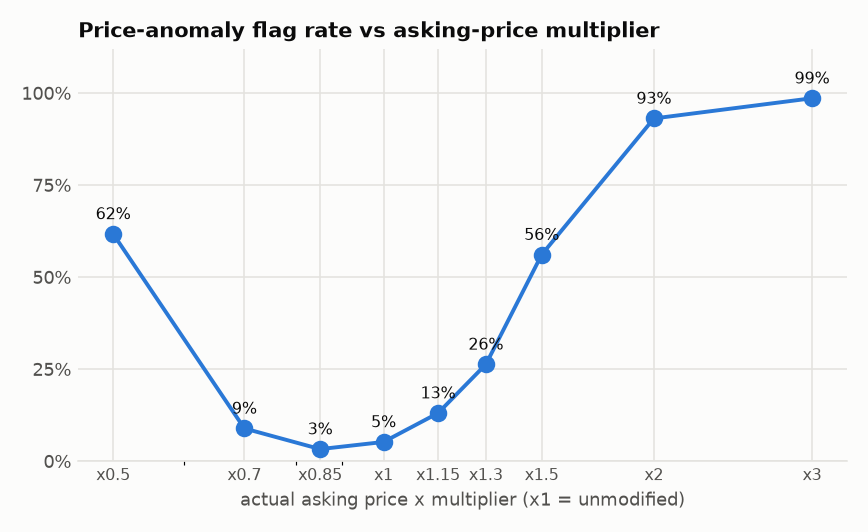
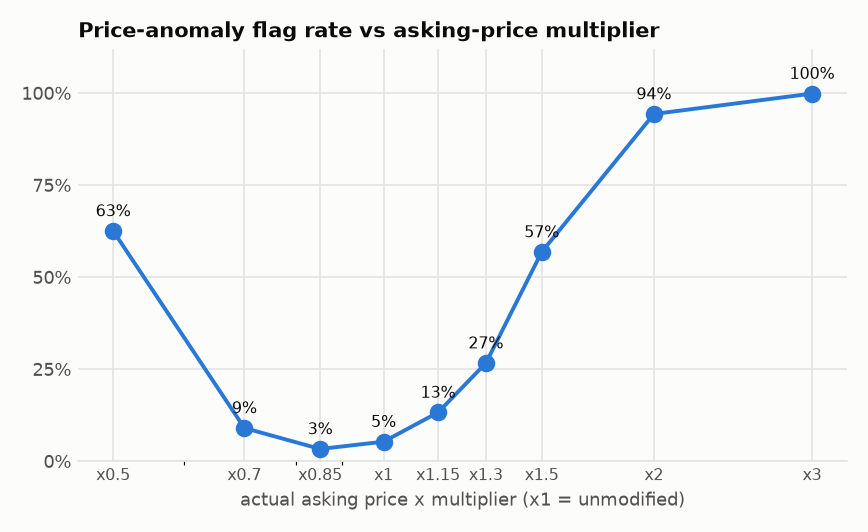
B08: exclude withheld predictions from sensitivity rates; verify B05/B07 calibration identity

diff --git a/ml/evaluation_evidence.py b/ml/evaluation_evidence.py
@@ -105,6 +105,16 @@ def load_inputs(b04: Path, b05: Path, package_dir: Path, snapshot: Path) -> Dict
         raise ci.ArtifactError("B04, B05, the package and the snapshot do not refer to the same snapshot")
     if report05["metadata"]["b04_model_sha256"] != model_sha or package.manifest["model_sha256"] != model_sha:
         raise ci.ArtifactError("B05 or the package was built for a different B04 model")
+    # The interval metrics (B05 report) and the risk results (computed with the packaged calibration) must describe the
+    # same calibration: compare the calibration file byte for byte, then the identifying fields.
+    packaged_sha = _read_json(package_dir / "SHA256SUMS.json").get("interval_calibration.json")
+    if _sha256(b05 / "interval_calibration.json") != packaged_sha:
+        raise ci.ArtifactError("the B05 calibration does not match the calibration packaged in B07 "
+                               "(interval_calibration.json differs); rebuild the package from this B05 artifact")
+    meta05 = report05["metadata"]
+    if (meta05.get("method") != package.calibration.method
+            or package.manifest["calibration_version"] != package.calibration.calibration_version):
+        raise ci.ArtifactError("B05 report and packaged calibration disagree on the calibration method or version")
     return {"meta04": meta04, "report04": report04, "report05": report05, "package": package,
             "splits": splits, "manifest": manifest, "model_sha": model_sha, "dirs": (b04, b05, package_dir, snapshot)}
 
@@ -155,6 +165,18 @@ def predictions(inputs: Mapping[str, Any]) -> pd.DataFrame:
     return out
 
 
+def interval_for_row(lower: Any, upper: Any, package: Any) -> Optional[Dict[str, Any]]:
+    """The calibrated interval of a prediction row, or None when it was withheld.
+
+    Withheld bounds are None in Python but become NaN once stored in a DataFrame column, so both must count as
+    "no interval"; otherwise withheld rows leak into every rate that is computed over served rows."""
+    if lower is None or upper is None or not (math.isfinite(float(lower)) and math.isfinite(float(upper))):
+        return None
+    return {"lower_bound_usd": float(lower), "upper_bound_usd": float(upper),
+            "confidence_level": package.calibration.primary_level,
+            "calibration_version": package.calibration.calibration_version}
+
+
 def price_anomaly_section(pred: pd.DataFrame) -> Dict[str, Any]:
     served = pred[pred["price_status"] != "insufficient_data"]
     counts = {k: int((served["price_status"] == k).sum()) for k in ("within_range", "above_range", "below_range")}
@@ -201,9 +223,7 @@ def risk_validation(inputs: Mapping[str, Any], pred: pd.DataFrame) -> Dict[str, 
     test = pred.reset_index(drop=True)
     rng = np.random.default_rng(SEED)
     rows = test.to_dict("records")
-    intervals = [{"lower_bound_usd": lo, "upper_bound_usd": hi, "confidence_level": package.calibration.primary_level,
-                  "calibration_version": package.calibration.calibration_version}
-                 if lo is not None else None for lo, hi in zip(test["lower_usd"], test["upper_usd"])]
+    intervals = [interval_for_row(lo, hi, package) for lo, hi in zip(test["lower_usd"], test["upper_usd"])]
 
     # A. flag rates on unmodified rows -------------------------------------------------------
     base = _eval_rows(rows, support, intervals, prices=list(test["price_usd"]))
@@ -310,10 +330,7 @@ def ontology_evaluation(inputs: Mapping[str, Any], pred: pd.DataFrame) -> Dict[s
     for index, row in sample.iterrows():
         listing = _row_listing(row)
         listing["asking_price_usd"] = row["price_usd"]
-        interval = ({"lower_bound_usd": row["lower_usd"], "upper_bound_usd": row["upper_usd"],
-                     "confidence_level": package.calibration.primary_level,
-                     "calibration_version": package.calibration.calibration_version}
-                    if row["lower_usd"] is not None else None)
+        interval = interval_for_row(row["lower_usd"], row["upper_usd"], package)
         result = rules.evaluate_listing(listing, district_support=package.district_support, interval=interval)
         learned = None
         if index < SHAP_SAMPLE_ROWS:

diff --git a/ml/tests/test_evaluation_evidence.py b/ml/tests/test_evaluation_evidence.py
@@ -129,3 +129,39 @@ def test_proximity_effect_reports_confounding(world):
     res = vp.metro_proximity_effect(test)
     assert res["available"] and res["interpretation"].startswith("Ratio of median price per m2")
     assert set(res["buckets"]) == {"near", "between", "far"}
+
+
+def test_withheld_predictions_are_excluded_from_every_served_row_rate(world):
+    import numpy as np
+    inputs = ev.load_inputs(world["b04"], world["b05"], world["package"], world["snapshot"])
+    pred = ev.predictions(inputs)
+    package = inputs["package"]
+    assert ev.interval_for_row(float("nan"), float("nan"), package) is None      # NaN is "no interval", like None
+    assert ev.interval_for_row(None, 5.0, package) is None
+    pred.loc[:49, ["lower_usd", "upper_usd"]] = np.nan                            # withhold 50 more rows
+    pred.loc[:49, "price_status"] = "insufficient_data"
+    risk = ev.risk_validation(inputs, pred)
+    served = int((pred["price_status"] != "insufficient_data").sum())
+    assert served <= len(pred) - 50
+    assert all(p["n"] == served for p in risk["price_anomaly_sensitivity"]["points"])
+    assert risk["flag_rates_on_unmodified_rows"]["PRICE-OUTSIDE-INTERVAL"]["unknown"] >= 50
+
+
+def test_sensitivity_at_multiplier_one_equals_the_price_anomaly_rate(world):
+    summary = world["summary"]
+    at_one = next(p for p in summary["risk_rules"]["price_anomaly_sensitivity"]["points"] if p["price_multiplier"] == 1.0)
+    served = summary["price_anomaly"]["served_rows"]
+    assert at_one["n"] == served
+    assert round(at_one["detected"] / served, 4) == summary["price_anomaly"]["outside_rate"]
+
+
+def test_refuses_a_b05_calibration_that_differs_from_the_packaged_one(world, tmp_path):
+    ci.run(_args({"b04": world["b04"], "snapshot": world["snapshot"], "root": world["root"]},
+                 "b05-b08-absolute", method="absolute"))
+    absolute = world["root"] / "b05" / "b05-b08-absolute"
+    assert (absolute / "interval_calibration.json").read_bytes() != (world["b05"] / "interval_calibration.json").read_bytes()
+    with pytest.raises(ci.ArtifactError, match="calibration"):
+        ev.load_inputs(world["b04"], absolute, world["package"], world["snapshot"])
+    assert ev.main(["--b04", str(world["b04"]), "--b05", str(absolute), "--package", str(world["package"]),
+                    "--snapshot", str(world["snapshot"]), "--output", str(tmp_path / "o")]) == 2
+    ev.load_inputs(world["b04"], world["b05"], world["package"], world["snapshot"])   # the matching one still loads

diff --git a/docs/evidence/b08/model_card.md b/docs/evidence/b08/model_card.md
@@ -92,7 +92,7 @@ No fraud labels exist. The numbers below therefore measure rule behaviour, not f
 
 | Asking price vs actual | x0.5 | x0.7 | x0.85 | x1 | x1.15 | x1.3 | x1.5 | x2 | x3 |
 |---|---|---|---|---|---|---|---|---|---|
-| Flagged | 62% | 9% | 3% | 5% | 13% | 26% | 56% | 93% | 99% |
+| Flagged | 63% | 9% | 3% | 5% | 13% | 27% | 57% | 94% | 100% |
 
 ![Price anomaly sensitivity](price_anomaly_sensitivity.png)
 
@@ -133,7 +133,7 @@ False flags on consistent synthetic text: 0 of 2,405 rows. With coordinates remo
 - Asking prices only; no signed rents. Renovation is always null in the A06 export, so it carries no signal.
 - Coverage is a marginal average, not a guarantee per listing, district or price level.
 - Listings from the same building can sit in both calibration and test, which makes coverage slightly optimistic.
-- The price-anomaly rule flags only large deviations: raising an asking price to 1.5x its actual value is flagged for 56% of listings, and 2x for 93%.
+- The price-anomaly rule flags only large deviations: raising an asking price to 1.5x its actual value is flagged for 57% of listings, and 2x for 94%.
 - Rule validation uses injected synthetic defects, and near-perfect detection of them is expected by construction: it shows the rules fire as designed, not that real errors look like these. No fraud labels exist, so fraud precision, recall and false positive rate on real listings are unmeasured and must not be inferred from this card.
 - Description-consistency rules cannot be evaluated on real text: the scrape parses fields from the title.
 - The district check compares labels with where other listings carry that label (no district polygons); it cannot tell whether the label or the pin is wrong.
